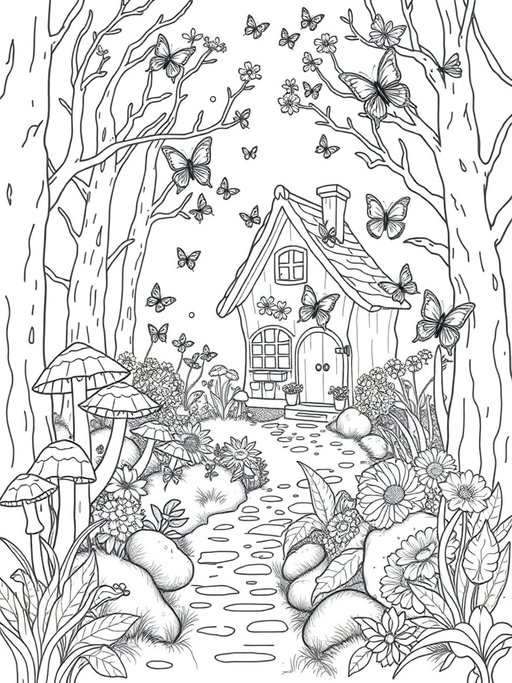
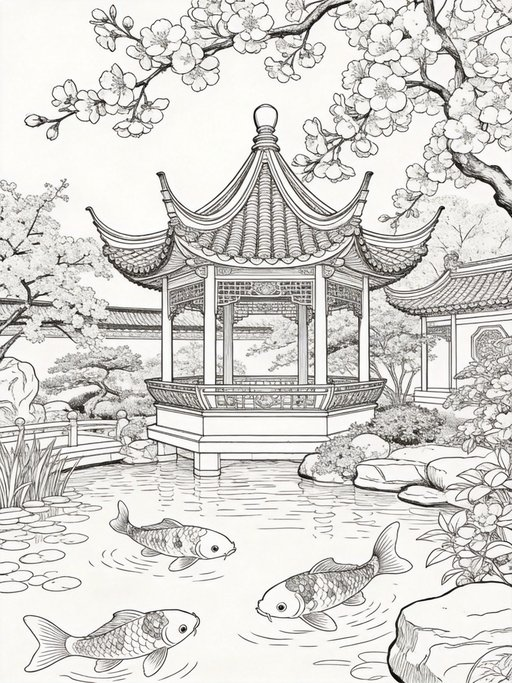
fix: 4 UI issues - persistent history, My Pages from DB, oriental thumbnails, gradient panels

diff --git a/src/app/generate/page.tsx b/src/app/generate/page.tsx
@@ -122,6 +122,8 @@ function GenerateContent() {
   const [styleSource, setStyleSource] = useState<StyleSource>('current');
   const [styleUploadImage, setStyleUploadImage] = useState<string | null>(null);
   const [selectedMyPagesIdx, setSelectedMyPagesIdx] = useState<number>(0);
+  const [showDescribeMyPages, setShowDescribeMyPages] = useState(false);
+  const [describeMyPagesIdx, setDescribeMyPagesIdx] = useState<number>(0);
 
   useEffect(() => {
     const p = searchParams.get('p');
@@ -141,6 +143,24 @@ function GenerateContent() {
         if (data.pagesUsed !== undefined) setPagesUsed(data.pagesUsed);
         if (data.limit) setPageLimit(data.limit);
         if (data.refTrialUsed !== undefined) setRefTrialUsed(data.refTrialUsed);
+      })
+      .catch(() => {});
+  }, [isSignedIn]);
+
+  // Load history from DB (persistent across page navigations)
+  useEffect(() => {
+    if (!isSignedIn) return;
+    fetch('/api/history')
+      .then(res => res.json())
+      .then(data => {
+        if (data.records) {
+          setHistory(data.records.map((r: any) => ({
+            url: r.image_url,
+            style: r.style,
+            prompt: r.prompt,
+            ts: new Date(r.created_at).getTime(),
+          })));
+        }
       })
       .catch(() => {});
   }, [isSignedIn]);
@@ -462,7 +482,7 @@ function GenerateContent() {
                     Upload
                   </button>
                   <button
-                    onClick={() => { if (history.length > 0) setStyleSource('mypages'); }}
+                    onClick={() => { if (history.length > 0) setShowDescribeMyPages(!showDescribeMyPages); }}
                     className={cn(
                       "flex-1 flex items-center justify-center gap-1.5 py-1.5 rounded-lg text-[11px] font-semibold transition-all border-2",
                       history.length > 0
@@ -475,6 +495,36 @@ function GenerateContent() {
                     My Pages
                   </button>
                 </div>
+                {showDescribeMyPages && history.length > 0 && (
+                  <div className="mt-2">
+                    <div className="flex items-center gap-1 mb-1.5">
+                      <span className="text-[10px] text-muted-foreground font-medium">Select a page as reference:</span>
+                    </div>
+                    <div className="grid grid-cols-5 gap-1">
+                      {history.slice(0, 10).map((item, i) => (
+                        <button
+                          key={item.ts}
+                          onClick={() => {
+                            setDescribeMyPagesIdx(i);
+                            setReferenceImage(item.url);
+                            setReferenceFileName('From My Pages');
+                            setPrompt(REFERENCE_PROMPT.text);
+                            setSelectedStyle('simple');
+                          }}
+                          className={cn(
+                            "aspect-[3/4] rounded-md overflow-hidden border-2 transition-all",
+                            describeMyPagesIdx === i
+                              ? "border-[#FFB800] shadow-sm"
+                              : "border-[#E5E0D5] hover:border-[#FFB800]/50"
+                          )}
+                          title={item.prompt}
+                        >
+                          <img src={item.url} alt="" className="w-full h-full object-cover" />
+                        </button>
+                      ))}
+                    </div>
+                  </div>
+                )}
                 {referenceImage && (
                   <div className="mt-2 flex items-center gap-2">
                     <img src={referenceImage} alt="Ref" className="w-8 h-8 object-cover rounded-lg border border-[#FFB800]" />
@@ -507,7 +557,7 @@ function GenerateContent() {
               </div>
 
               {/* 2. Line Style Selection - FIXED thumbnails */}
-              <div className="rounded-2xl p-3 shadow-sm border border-border bg-white">
+              <div className="rounded-2xl p-3 shadow-sm border border-border" style={{ background: 'linear-gradient(135deg, #FFFBF0 0%, #FFF5E6 50%, #FFEFF5 100%)' }}>
                 <div className="flex items-center gap-1.5 mb-2">
                   <Palette className="w-3.5 h-3.5 text-[#FFB800]" />
                   <span className="text-[11px] font-bold text-foreground/70 uppercase tracking-wide">Line Style</span>
@@ -532,7 +582,7 @@ function GenerateContent() {
                         alt={style.label}
                         className="w-full h-16 object-cover object-top bg-[#f5f3ef]"
                       />
-                      <div className="py-1 px-1 text-center bg-white">
+                      <div className="py-1 px-1 text-center bg-white/50">
                         <span className="text-[10px] font-semibold text-foreground/80">{style.label}</span>
                       </div>
                     </button>
@@ -608,7 +658,7 @@ function GenerateContent() {
               </div>
 
               {/* 4. Style It Section - UPGRADED with thumbnails + source tabs */}
-              <div className="rounded-2xl p-3 shadow-sm border border-border bg-white">
+              <div className="rounded-2xl p-3 shadow-sm border border-border" style={{ background: 'linear-gradient(135deg, #FFFBF0 0%, #FFF5E6 50%, #FFEFF5 100%)' }}>
                 <div className="flex items-center gap-1.5 mb-2">
                   <Wand2 className="w-3.5 h-3.5 text-[#FFB800]" />
                   <span className="text-[11px] font-bold text-foreground/70 uppercase tracking-wide">Style It</span>
@@ -710,18 +760,12 @@ function GenerateContent() {
                       )}
                       title={art.desc}
                     >
-                      <div className="w-full aspect-[3/4] flex items-center justify-center text-2xl"
-                        style={{
-                          background: art.id === 'chubby-doodle' ? 'linear-gradient(135deg, #fff5e6, #ffe0cc)' :
-                            art.id === 'pop-art' ? 'linear-gradient(135deg, #ffe6f0, #ffd6e8)' :
-                            art.id === 'city-pop' ? 'linear-gradient(135deg, #e6f0ff, #d6e8ff)' :
-                            art.id === 'fridge-magnet' ? 'linear-gradient(135deg, #f0ffe6, #e8ffd6)' :
-                            'linear-gradient(135deg, #f5e6ff, #edd6ff)'
-                        }}
-                      >
-                        {art.id === 'chubby-doodle' ? '🖍️' : art.id === 'pop-art' ? '💥' : art.id === 'city-pop' ? '🌆' : art.id === 'fridge-magnet' ? '🧲' : '✏️'}
-                      </div>
-                      <div className="py-1 px-0.5 text-center bg-white">
+                      <img
+                        src={art.thumbnail}
+                        alt={art.label}
+                        className="w-full aspect-[3/4] object-cover object-top bg-[#f5f3ef]"
+                      />
+                      <div className="py-1 px-0.5 text-center bg-white/50">
                         <span className="text-[8px] font-semibold text-foreground/70 leading-tight block">{art.label}</span>
                       </div>
                     </button>
@@ -837,7 +881,7 @@ function GenerateContent() {
                 </div>
               )}
 
-              {/* Generation History - ALWAYS VISIBLE */}
+              {/* Generation History - ALWAYS VISIBLE, loaded from DB */}
               <div className="rounded-2xl p-3 shadow-sm border border-border bg-white">
                 <div className="flex items-center gap-1.5 mb-2">
                   <Clock className="w-3.5 h-3.5 text-muted-foreground" />
@@ -847,13 +891,13 @@ function GenerateContent() {
                   )}
                 </div>
                 {history.length > 0 ? (
-                  <div className="flex gap-2 overflow-x-auto pb-1">
-                    {history.map((item, i) => (
+                  <div className="grid grid-cols-4 gap-2">
+                    {history.slice(0, 12).map((item, i) => (
                       <button
                         key={item.ts}
                         onClick={() => { setGeneratedImageUrl(item.url); setSelectedStyle(item.style as any); setStyledImageUrl(null); setSelectedArtStyle(null); }}
                         className={cn(
-                          "flex-shrink-0 w-12 h-16 rounded-lg overflow-hidden border-2 transition-all",
+                          "group relative rounded-lg overflow-hidden border-2 transition-all aspect-[3/4]",
                           generatedImageUrl === item.url && !styledImageUrl
                             ? "border-[#FFB800] shadow-sm"
                             : "border-[#E5E0D5] hover:border-[#FFB800]/50"
@@ -861,12 +905,15 @@ function GenerateContent() {
                         title={item.prompt}
                       >
                         <img src={item.url} alt="" className="w-full h-full object-cover" />
+                        <div className="absolute inset-x-0 bottom-0 bg-gradient-to-t from-black/60 to-transparent p-1 opacity-0 group-hover:opacity-100 transition-opacity">
+                          <p className="text-[8px] text-white truncate">{item.prompt}</p>
+                        </div>
                       </button>
                     ))}
                   </div>
                 ) : (
                   <p className="text-[10px] text-muted-foreground/50 text-center py-2">
-                    Generated pages will appear here
+                    {isSignedIn ? "Generated pages will appear here" : "Sign in to see your history"}
                   </p>
                 )}
               </div>

diff --git a/src/app/api/auto-color/route.ts b/src/app/api/auto-color/route.ts
@@ -76,11 +76,12 @@ export async function POST(req: NextRequest) {
         canny_preprocess: true,
         teed_image_url: imageUrl,
         teed_preprocess: true,
-        // Control parameters
+        // Control parameters - optimized for Vercel free tier (10s timeout)
+        // Reduced steps from 35→18, guidance from 7.5→6 to fit within timeout
         controlnet_conditioning_scale: 0.8,  // Strong constraint to keep outlines
-        strength: 0.7,                        // Preserve original structure
-        guidance_scale: 7.5,
-        num_inference_steps: 35,
+        strength: 0.65,                       // Slightly less to preserve structure with fewer steps
+        guidance_scale: 6,
+        num_inference_steps: 18,
         num_images: 1,
         format: 'png',
         enable_safety_checker: true,

diff --git a/src/app/auto-color/page.tsx b/src/app/auto-color/page.tsx
@@ -182,7 +182,7 @@ function AutoColorContent() {
             <div className="w-[340px] flex-shrink-0 space-y-4">
 
               {/* Step 1: Choose Image */}
-              <div className="rounded-2xl p-4 shadow-sm border border-border bg-white">
+              <div className="rounded-2xl p-4 shadow-sm border border-border" style={{ background: 'linear-gradient(135deg, #FFFBF0 0%, #FFF5E6 50%, #FFEFF5 100%)' }}>
                 <h3 className="text-sm font-bold text-foreground mb-3 flex items-center gap-1.5">
                   <span className="w-5 h-5 rounded-full bg-[#FFB800] text-white text-[10px] flex items-center justify-center font-bold">1</span>
                   Choose a Coloring Page
@@ -273,7 +273,7 @@ function AutoColorContent() {
               </div>
 
               {/* Step 2: Choose Palette */}
-              <div className="rounded-2xl p-4 shadow-sm border border-border bg-white">
+              <div className="rounded-2xl p-4 shadow-sm border border-border" style={{ background: 'linear-gradient(135deg, #FFFBF0 0%, #FFF5E6 50%, #FFEFF5 100%)' }}>
                 <h3 className="text-sm font-bold text-foreground mb-3 flex items-center gap-1.5">
                   <span className="w-5 h-5 rounded-full bg-[#FF6B6B] text-white text-[10px] flex items-center justify-center font-bold">2</span>
                   Pick a Color Palette
@@ -306,7 +306,7 @@ function AutoColorContent() {
               </div>
 
               {/* Step 3: Generate */}
-              <div className="rounded-2xl p-4 shadow-sm border border-border bg-white">
+              <div className="rounded-2xl p-4 shadow-sm border border-border" style={{ background: 'linear-gradient(135deg, #FFFBF0 0%, #FFF5E6 50%, #FFEFF5 100%)' }}>
                 <h3 className="text-sm font-bold text-foreground mb-3 flex items-center gap-1.5">
                   <span className="w-5 h-5 rounded-full bg-gradient-to-r from-[#FFB800] to-[#FF6B6B] text-white text-[10px] flex items-center justify-center font-bold">3</span>
                   Generate